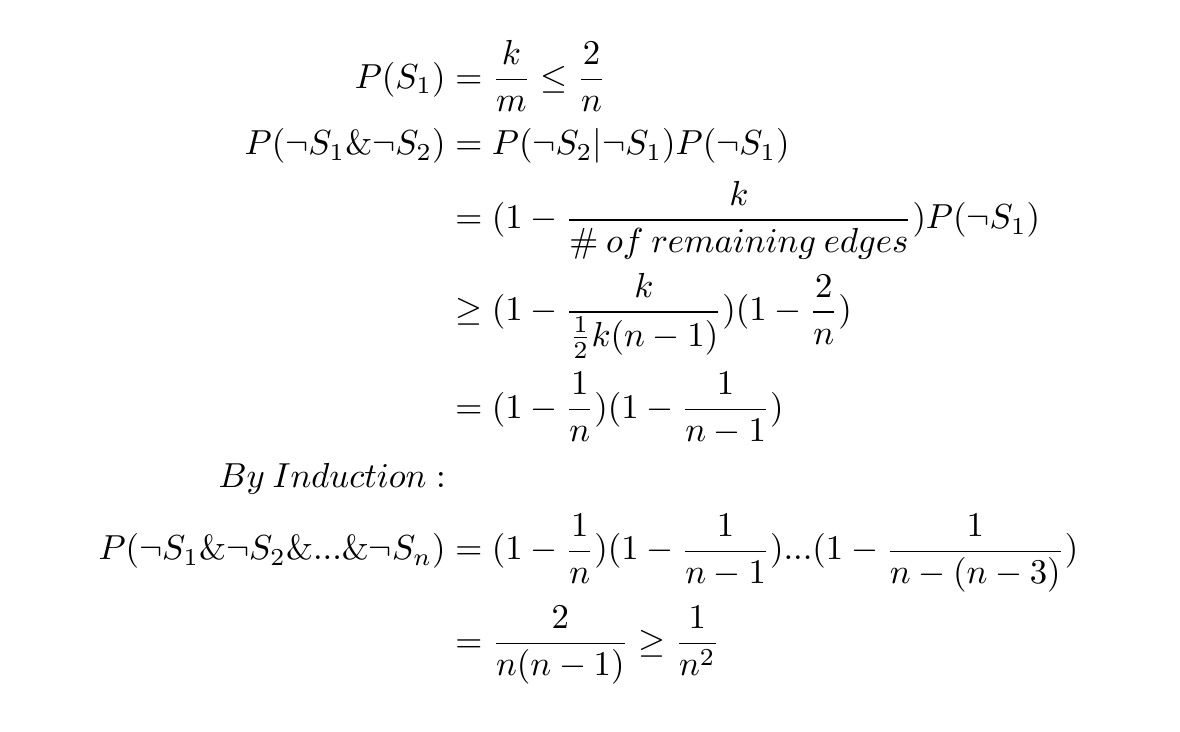
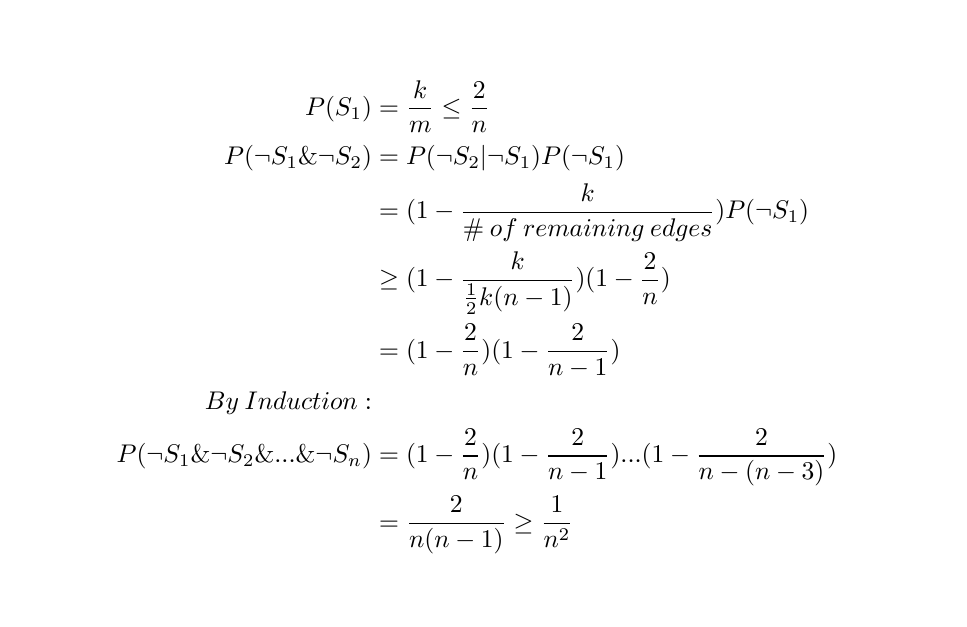
minor mistake

diff --git a/_tex/Karger_Correnctness.tex b/_tex/Karger_Correnctness.tex
@@ -10,9 +10,9 @@
 	 P(\neg S_1 \& \neg S_2) &= P(\neg S_2 | \neg S_1)P(\neg S_1)\\
 	 						&= (1-\frac{k}{\# \: of \: remaining \: edges})P(\neg S_1)\\
 	 						& \geq (1 - \frac{k}{\frac{1}{2}k(n-1)})(1-\frac{2}{n})\\
-	 						&=(1-\frac{1}{n})(1-\frac{1}{n-1})\\
+	 						&=(1-\frac{2}{n})(1-\frac{2}{n-1})\\
 	 By\: Induction:\\
-	 P(\neg S_1 \& \neg S_2 \& ... \& \neg S_n) &= (1-\frac{1}{n})(1-\frac{1}{n-1})...(1-\frac{1}{n-(n-3)})\\
+	 P(\neg S_1 \& \neg S_2 \& ... \& \neg S_n) &= (1-\frac{2}{n})(1-\frac{2}{n-1})...(1-\frac{2}{n-(n-3)})\\
 	 						&= \frac{2}{n(n-1)} \geq \frac{1}{n^2}
 \end{align*}
 
